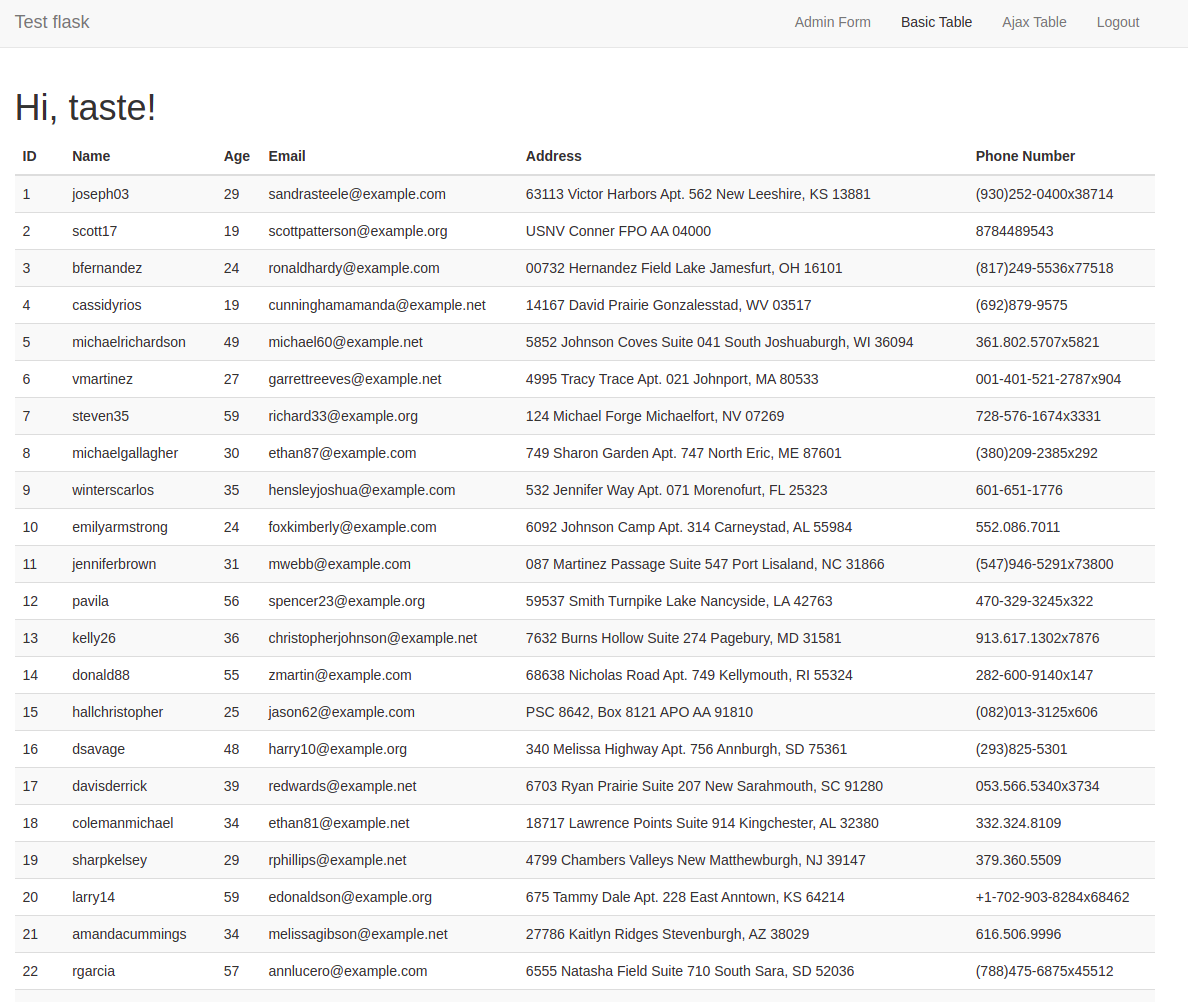
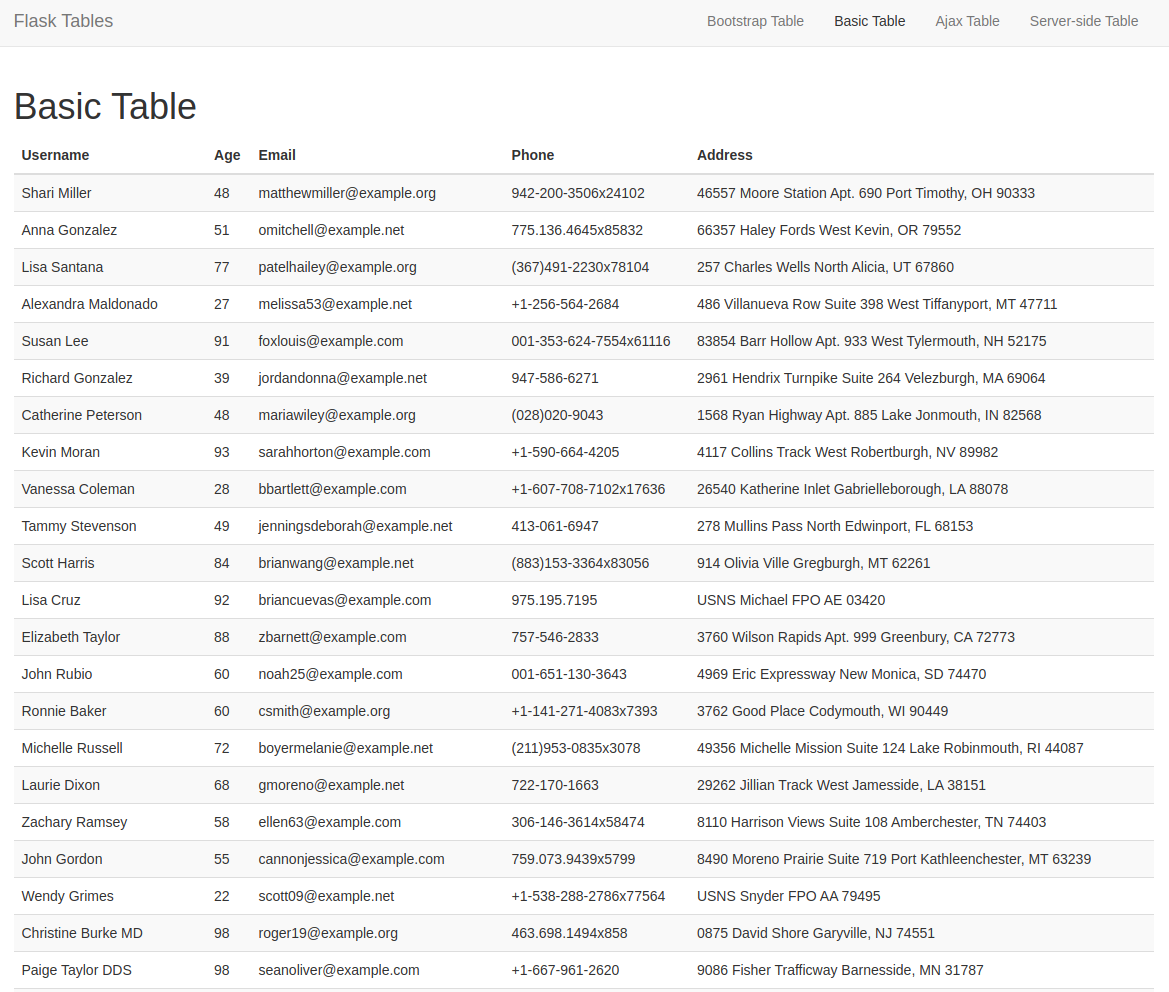
Doc: Update README.md file

diff --git a/README.md b/README.md
@@ -25,31 +25,50 @@ I was quite worried about how I can create a table in [my personal blog]() and a
 - [x] Heroku for Deployment
 - [x] Docker for Deployment
 
-Additional technologies used:
+## Types of Tables on Display
 
-- [x] Flask login for authentication
-- [x] Flask-WTF for forms
-- [x] Flask-Migrate for database migrations
+1. [Bootstrap Table](#bootstrap-table)
+2. [Basic Table](#basic-table)
+3. [Ajax Table](#ajax-table)
+4. [Server-side Table](#server-side-table)
+
+### Bootstrap Table
+
+Creating a table in flask is very easy. All you need to do is define a table structure and display all the users in the table.
+
+![Bootstrap Table](app/static/bootstrap-table.png)
+
 
 ### Basic Table
 
-The basic table is a table that displays all the data in the database. I call it basic in the sense that it is quite good for the purposes of displaying short data. However, it is not very efficient as it is slow to load extremely large data. 
+The basic table is a table that displays all the data in the database, just like the bootstrap table. I call it basic in the sense that it is quite good for the purposes of displaying short data. However, it is not very efficient displaying large data. 
 
 The biggest shortcoming of the basic table, which simply shows all the user data in our database, is that, for a few seconds on page load, this table will display the entire table before pagination kicks in. In the event that the data is too large, a user will have to patiently wait as the route 'does its thing' before the actual final table is displayed.
 
-###### Table when the page is loading for the first few seconds:
+#### Table when the page is loading for the first few seconds
 
 ![Table on Page Load](app/static/basic-table-on-page-load.png)
 
-###### Table when the page is fully loaded:
+#### Table when the page is fully loaded
 
-![Table on Page Load](app/static/app.png)
+![Table on Page Load](app/static/basic-table-on-page-load-full.png)
 
 ### Ajax Table
 
-The use of Ajax helps to solve this problem. The table is loaded in chunks of data, which is then displayed on the screen. Also, searching is conviniently done on the server side. This improves the performance of the application. A user can search for a specific word or phrase in the entire table in an instant, without waiting for several seconds for Python to load the searched data.
+The use of Ajax helps to solve the problem faced by the basic table. Here, the table is first loaded empty when the request to access the ajax table is made. A second endpoint is used to display the data in the table. However, there is still a slight problem with this table. If the data is too large, the table will be empty for a few seconds before the actual data is displayed. This is because the entire table has to be loaded first, and this may take time depending on the size of the data.
 
-![Searching in Ajax Table](app/static/search_alex.png)
+#### Ajax Table when the page is loading for the first few seconds
+
+![Ajax Table on Page Load](app/static/ajax-table-on-page-load.png)
+
+#### Ajax Table when the page is fully loaded
+![Searching in Ajax Table](app/static/ajax-table-on-page-load-full.png)
+
+### Server-side Table
+
+With the server-side table, all features such as pagingaion, searching, and sorting are implemented on the server side. This is a very efficient way to display large data. When a request for the paginated server-side table is made, only the data found in the particular page will be displayed. If a user navigates to another page, then a new request for the data in the next page will be made. As such, only needed data is loaded and displayed. It is a better solution but it is a bit more involved to implement. Features such as searching and sorting have to be moved from the client side to the server side. 
+
+![Server-side Table](app/static/server-side-table.png)
 
 ### Deployed Application
 
@@ -87,7 +106,5 @@ If you are interested in testing the application, you can use the following comm
     - [x] [Safari](http://127.0.0.1:5000/)
 
 ### Reference
-
-I have made tremendous changes to this application since the original version. The code here is not updated. However, I have an article that goes into greater detail about how this project can be redone in a more structured way. You can read about it [here](https://github.com/GitauHarrison/notes/blob/master/flask_tables.md).
 
 - [Interactive Flask Templates](https://blog.miguelgrinberg.com/post/beautiful-interactive-tables-for-your-flask-templates) - Miguel Grinberg
